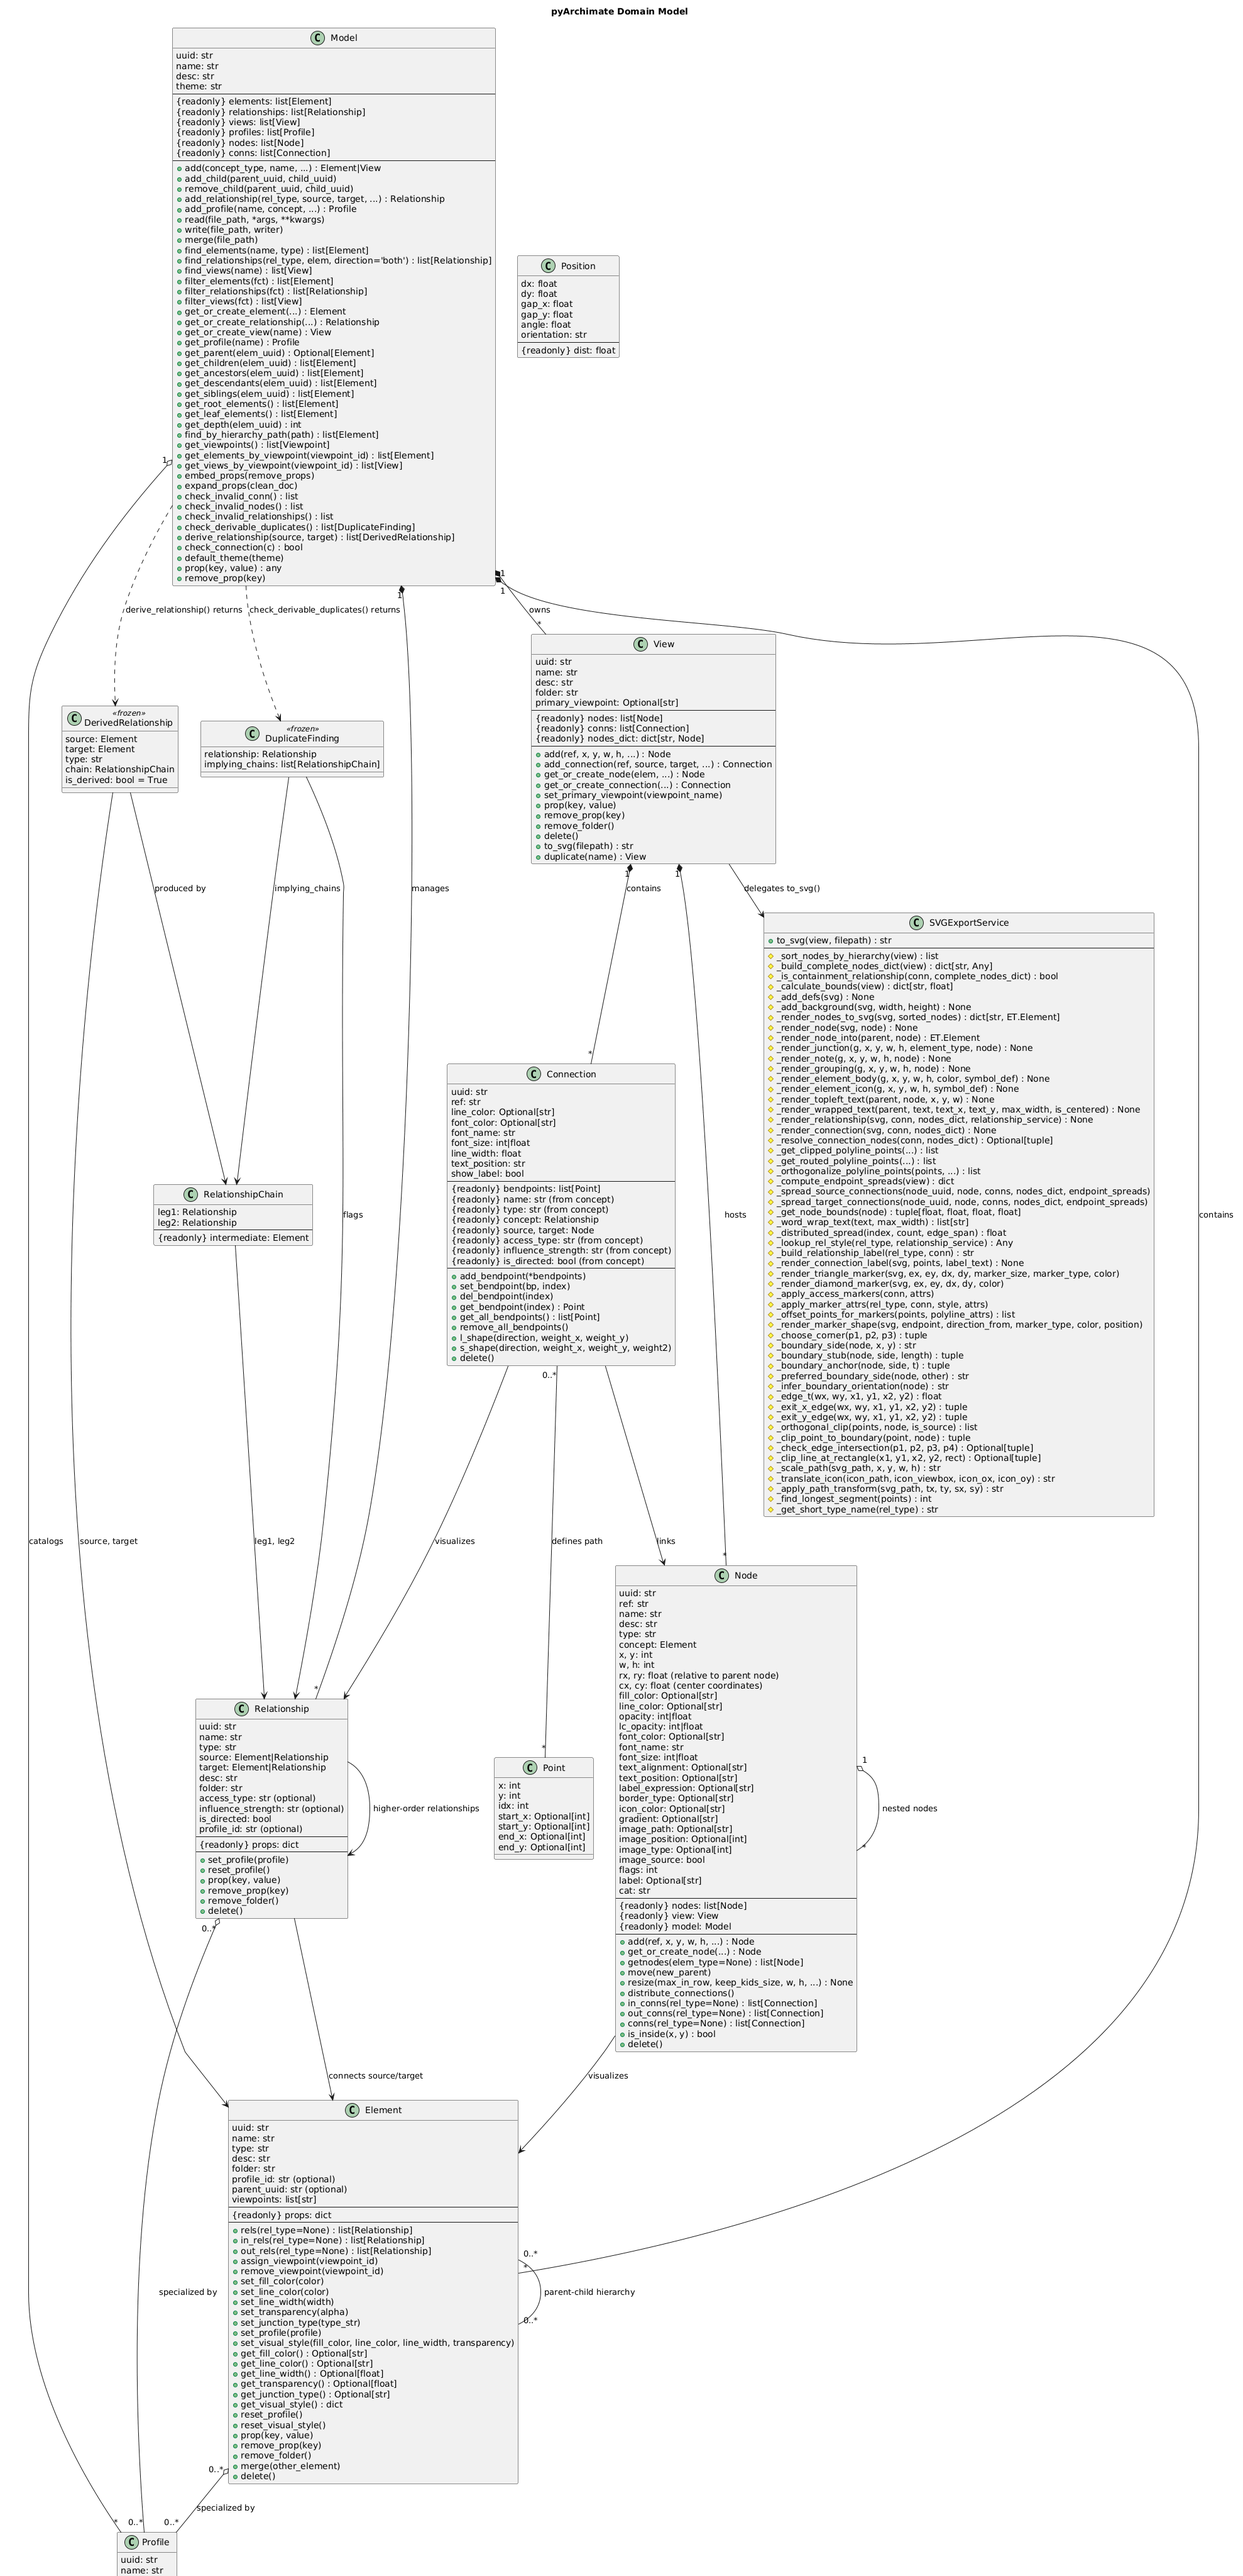
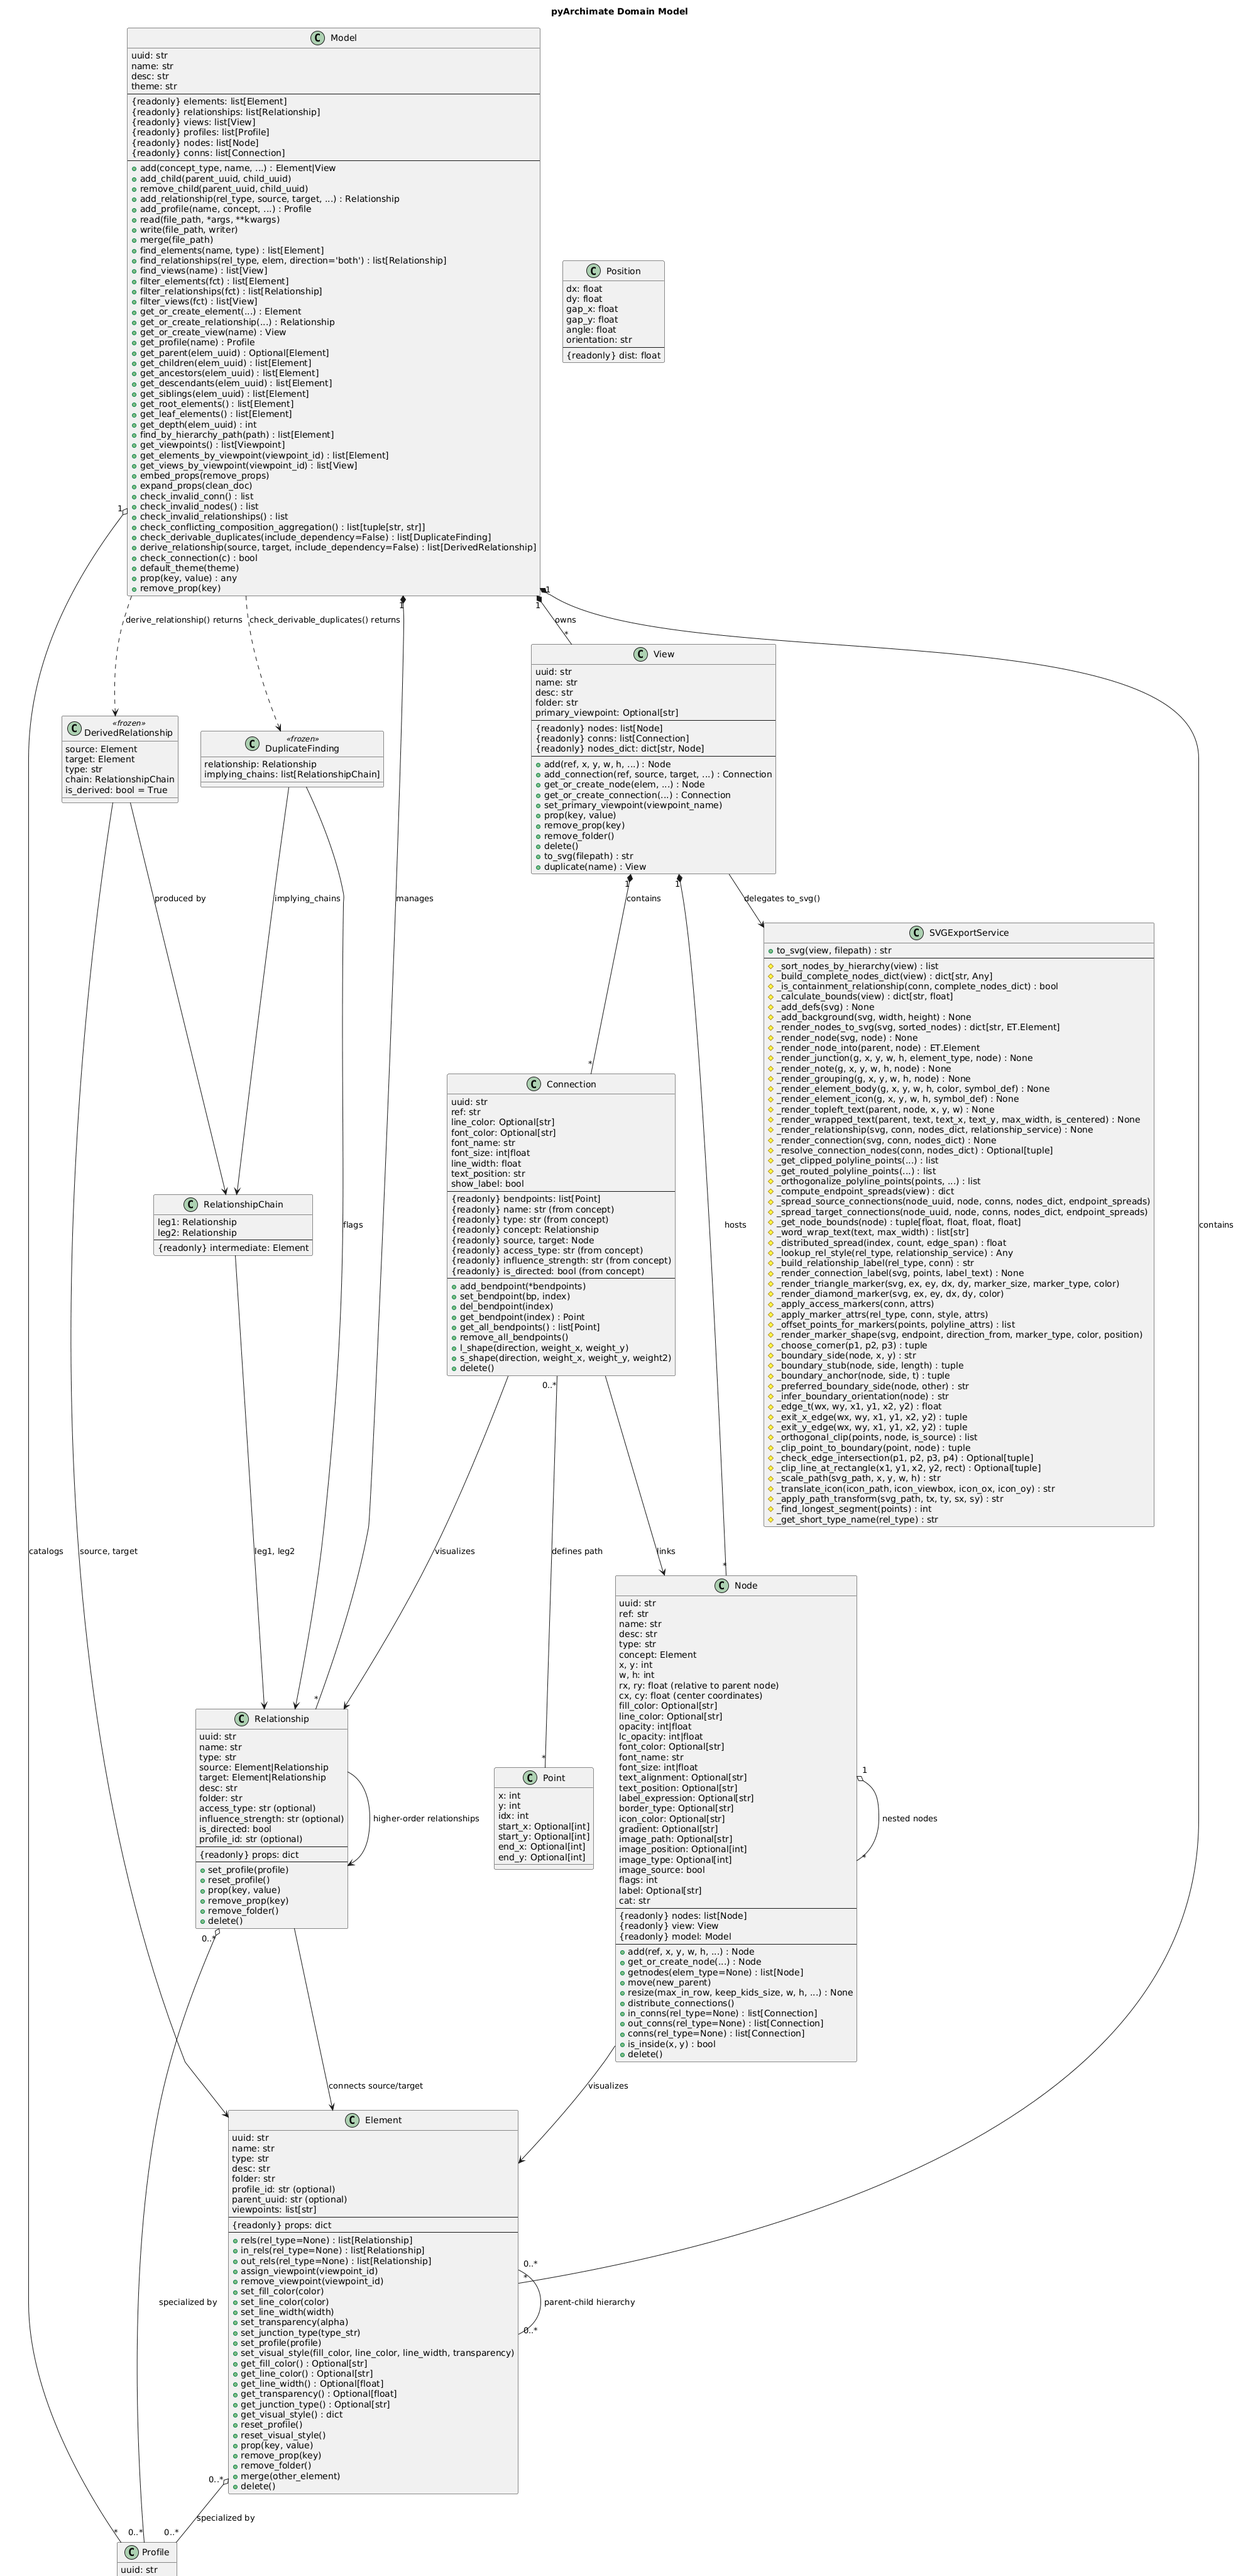
docs: document check_conflicting_composition_aggregation in tutorial and class diagram
Follows the existing convention of keeping docs/tutorial/tutorial.md
(and its .ipynb mirror) and docs/diagrams/class.puml in sync with the
Model API surface.

Refs: #149

diff --git a/docs/tutorial/tutorial.md b/docs/tutorial/tutorial.md
@@ -210,6 +210,9 @@ between two element types under the ArchiMate rules and returns a boolean.
 `get_default_rel_type()` returns the most appropriate relationship type for a
 given source/target pair. `model.check_invalid_conn()` audits every connection
 in the model, and `model.check_invalid_relationships()` audits all relationships.
+`model.check_conflicting_composition_aggregation()` audits all relationships for
+a different kind of problem: a Composition and an Aggregation directly between
+the same element pair, which the ArchiMate spec treats as mutually exclusive.
 
 ```python
 from pyArchimate import (
@@ -251,6 +254,18 @@ print(f"Number of invalid connections: {len(invalid_conns)}")  # 0
 # Validate all relationships in the model
 invalid_rels = model.check_invalid_relationships()
 print(f"Number of invalid relationships: {len(invalid_rels)}")  # 0
+
+# Composition and Aggregation between the same pair are mutually exclusive:
+# a part may belong to at most one Composition (ArchiMate 3.x Specification).
+# check_conflicting_composition_aggregation() flags any pair that has both,
+# in either direction.
+whole = model.add(ArchiType.ApplicationComponent, "Billing Suite")
+part = model.add(ArchiType.ApplicationComponent, "Invoice Module")
+model.add_relationship(ArchiType.Composition, source=whole, target=part)
+model.add_relationship(ArchiType.Aggregation, source=whole, target=part)
+
+conflicts = model.check_conflicting_composition_aggregation()
+print(f"Number of conflicting composition/aggregation pairs: {len(conflicts)}")  # 1
 ```
 
 ---
